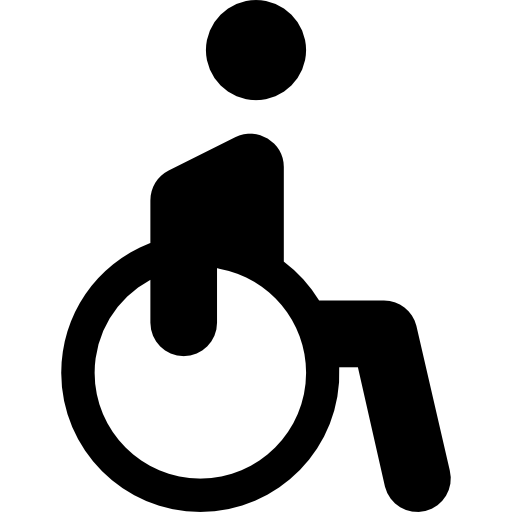
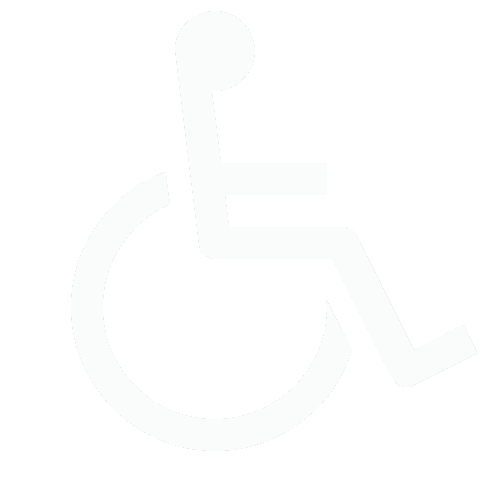
Cambios en controlador y diseno
Cambios de diseno previo a grabacion de video, cambios a los controladores de acuerd a los cambios de la base de datos

Changed region(s): [[0.1198, 0.2484, 0.8982, 1.0], [0.3892, 0.0, 0.5988, 0.2174]]

diff --git a/controllers/llamar_tickets_controller.js b/controllers/llamar_tickets_controller.js
@@ -68,7 +68,7 @@ function obtener_datos_empleado(){
             alert("Ocurrio un error con los datos_empleado")
         }else{
             setInterval(obtener_personas_espera, 3000,jornadaJson.Direccion_idDireccion,jornadaJson.tramites_habilitados);  //luego de obtener los datos de la sesion empezar a contar el numero de personas en cola
-            document.getElementById("numeroVentanilla").innerHTML = `<b>${jornadaJson.nombre_ventanilla} / ${jornadaJson.primerNombre} ${jornadaJson.primerApellido}</b>`;
+            document.getElementById("numeroVentanilla").innerHTML = `<b>Ventanilla ${jornadaJson.numero} / ${jornadaJson.primerNombre} ${jornadaJson.primerApellido}</b>`;
             document.getElementById("areaTramite").innerText = `${jornadaJson.nombre_direccion} / ${jornadaJson.tramites_habilitados}`;
             minutosPerdidos = jornadaJson.minutosFueraVentanilla;
             segundosPerdidos = jornadaJson.segundosFueraVentanilla;

diff --git a/views/user/pantalla_registro_inmueble.php b/views/user/pantalla_registro_inmueble.php
@@ -43,15 +43,15 @@
 									</div>
 									<p></p>
 									<div class="row ">
-										<a href="datos_cliente.php" data-toggle="tooltip" data-placement="top" title="Presentar Poderes y Sentencias"> <div class="col-6 col-sm-6  "><button type="button" onclick="guardarTramite(18)" class="btn btn-outline-info btn-lg login100-form-btn" style="width: 100%;"><img src="../../img/desing/cv.png" height ="64" width="64"/><P >PRESENTACION PODERES Y SENTENCIAS</P></button></div></a>
+										<a href="datos_cliente.php" data-toggle="tooltip" data-placement="top" title="Presentar Poderes y Sentencias"> <div class="col-6 col-sm-6  "><button type="button" onclick="guardarTramite(18)" class="btn btn-outline-info btn-lg login100-form-btn" style="width: 100%;"><img src="../../img/desing/permiso(1).png" height ="64" width="64"/><P >PRESENTACION PODERES Y SENTENCIAS</P></button></div></a>
 
 										<div class="w-100"></div>
 
-										<a href="datos_cliente.php" data-toggle="tooltip" data-placement="top" title="Presentacion Civiles"> <div class="col-6 col-sm-6"><button type="button" onclick="guardarTramite(19)" class="btn btn-outline-info  btn-lg login100-form-btn" style="width: 100%;"><img src="../../img/desing/retirada.png" height ="64" width="64" /> <P>PRESENTACIONES CIVILES</P></button></div></a>
+										<a href="datos_cliente.php" data-toggle="tooltip" data-placement="top" title="Presentacion Civiles"> <div class="col-6 col-sm-6"><button type="button" onclick="guardarTramite(19)" class="btn btn-outline-info  btn-lg login100-form-btn" style="width: 100%;"><img src="../../img/desing/cv.png" height ="64" width="64" /> <P>PRESENTACIONES CIVILES</P></button></div></a>
 									</div>
 									<p></p>
 									<div class="row ">
-										<a href="datos_cliente.php" data-toggle="tooltip" data-placement="top" title="Retiro"> <div class="col-6 col-sm-6  "><button type="button" onclick="guardarTramite(20)" class="btn btn-outline-info btn-lg login100-form-btn" style="width: 100%;"><img src="../../img/desing/permiso(1).png" height ="64" width="64"/><P >RETIRO</P></button></div></a>
+										<a href="datos_cliente.php" data-toggle="tooltip" data-placement="top" title="Retiro"> <div class="col-6 col-sm-6  "><button type="button" onclick="guardarTramite(20)" class="btn btn-outline-info btn-lg login100-form-btn" style="width: 100%;"><img src="../../img/desing/retirada.png" height ="64" width="64"/><P >RETIRO</P></button></div></a>
 
 										<div class="w-100"></div>
 

diff --git a/views/user/obtener_empleado.php b/views/user/obtener_empleado.php
@@ -23,7 +23,6 @@
                                         Usuario_idUsuario,
                                         correoInstitucional,
                                         `login`,
-                                        Ventanilla_idVentanilla,
                                         Rol_idRol
                                     FROM
                                         empleado
@@ -38,7 +37,6 @@
             $salida["Usuario_idUsuario"] = $fila["Usuario_idUsuario"];
             $salida["correoInstitucional"] = $fila["correoInstitucional"];
             $salida["login"] = $fila["login"];
-            $salida["Ventanilla_idVentanilla"] = $fila["Ventanilla_idVentanilla"];
             $salida["Rol_idRol"] = $fila["Rol_idRol"];         
         }
         return $salida;
@@ -51,7 +49,6 @@
                                         Usuario_idUsuario,
                                         correoInstitucional,
                                         `login`,
-                                        Ventanilla_idVentanilla,
                                         Rol_idRol
                                     FROM
                                         empleado
@@ -66,7 +63,6 @@
             $salida["Usuario_idUsuario"] = $fila["Usuario_idUsuario"];
             $salida["correoInstitucional"] = $fila["correoInstitucional"];
             $salida["login"] = $fila["login"];
-            $salida["Ventanilla_idVentanilla"] = $fila["Ventanilla_idVentanilla"];
             $salida["Rol_idRol"] = $fila["Rol_idRol"];         
         }
         

diff --git a/views/user/preferencia.php b/views/user/preferencia.php
@@ -43,7 +43,7 @@
 						<a href="pantalla_seleccionar_area.php" data-toggle="tooltip" data-placement="top" title="Sin preferencia"><button onclick="guardarPreferencia(0)"  type="button" class="btn btn-info" style="background:#88CFE1 !important;"><img src="../../img/desing/sinpreferencia.png"  height ="100%" width="77%"/><P style="font-size:250%;">Atención General</P></button></a>
 					</div>
 					<div class="col-sm-6">
-						<a href="pantalla_seleccionar_area.php" data-toggle="tooltip" data-placement="top" title="Con preferencia"><button onclick="guardarPreferencia(1)" type="button" class="btn btn-info" style="margin-left:5%; width:95%; background:#88CFE1 !important"><img src="../../img/desing/preferencial.png" height ="400" width="50%"/><P style="font-size:250%;">Atención Preferencial</P></button></a>
+						<a href="pantalla_seleccionar_area.php" data-toggle="tooltip" data-placement="top" title="Con preferencia"><button onclick="guardarPreferencia(1)" type="button" class="btn btn-info" style="margin-left:5%; width:95%; background:#88CFE1 !important"><img src="../../img/desing/discapacidad.png" height ="400" width="75%"/><P style="font-size:250%;">Atención Preferencial</P></button></a>
 					</div>
 				</div>
 			</div>

diff --git a/views/user/obtener_jornada_laboral.php b/views/user/obtener_jornada_laboral.php
@@ -25,7 +25,7 @@ if (isset($_GET["idEmpleado"])) {
     $stmt = $conexion->prepare("SELECT
                                     j.idJornadaLaboral,
                                     j.Ventanilla_idVentanilla,
-                                    v.nombre AS nombre_ventanilla,
+                                    v.numero,
                                     v.Direccion_idDireccion,
                                     tv.descripcion AS tramites_habilitados,
                                     d.nombre AS nombre_direccion,
@@ -69,8 +69,8 @@ if (isset($_GET["idEmpleado"])) {
         $salida["Empleado_idEmpleado"] = $fila["Empleado_idEmpleado"];
         $salida["primerNombre"] = $fila["primerNombre"];
         $salida["primerApellido"] = $fila["primerApellido"];
+        $salida["numero"] = $fila["numero"];
         $salida["Ventanilla_idVentanilla"] = $fila["Ventanilla_idVentanilla"];
-        $salida["nombre_ventanilla"] = $fila["nombre_ventanilla"];
         $salida["Direccion_idDireccion"] = $fila["Direccion_idDireccion"];
         $salida["nombre_direccion"] = $fila["nombre_direccion"];
         $salida["TipoJornadaLaboral_idTipoJornadaLaboral"] = $fila["TipoJornadaLaboral_idTipoJornadaLaboral"];
